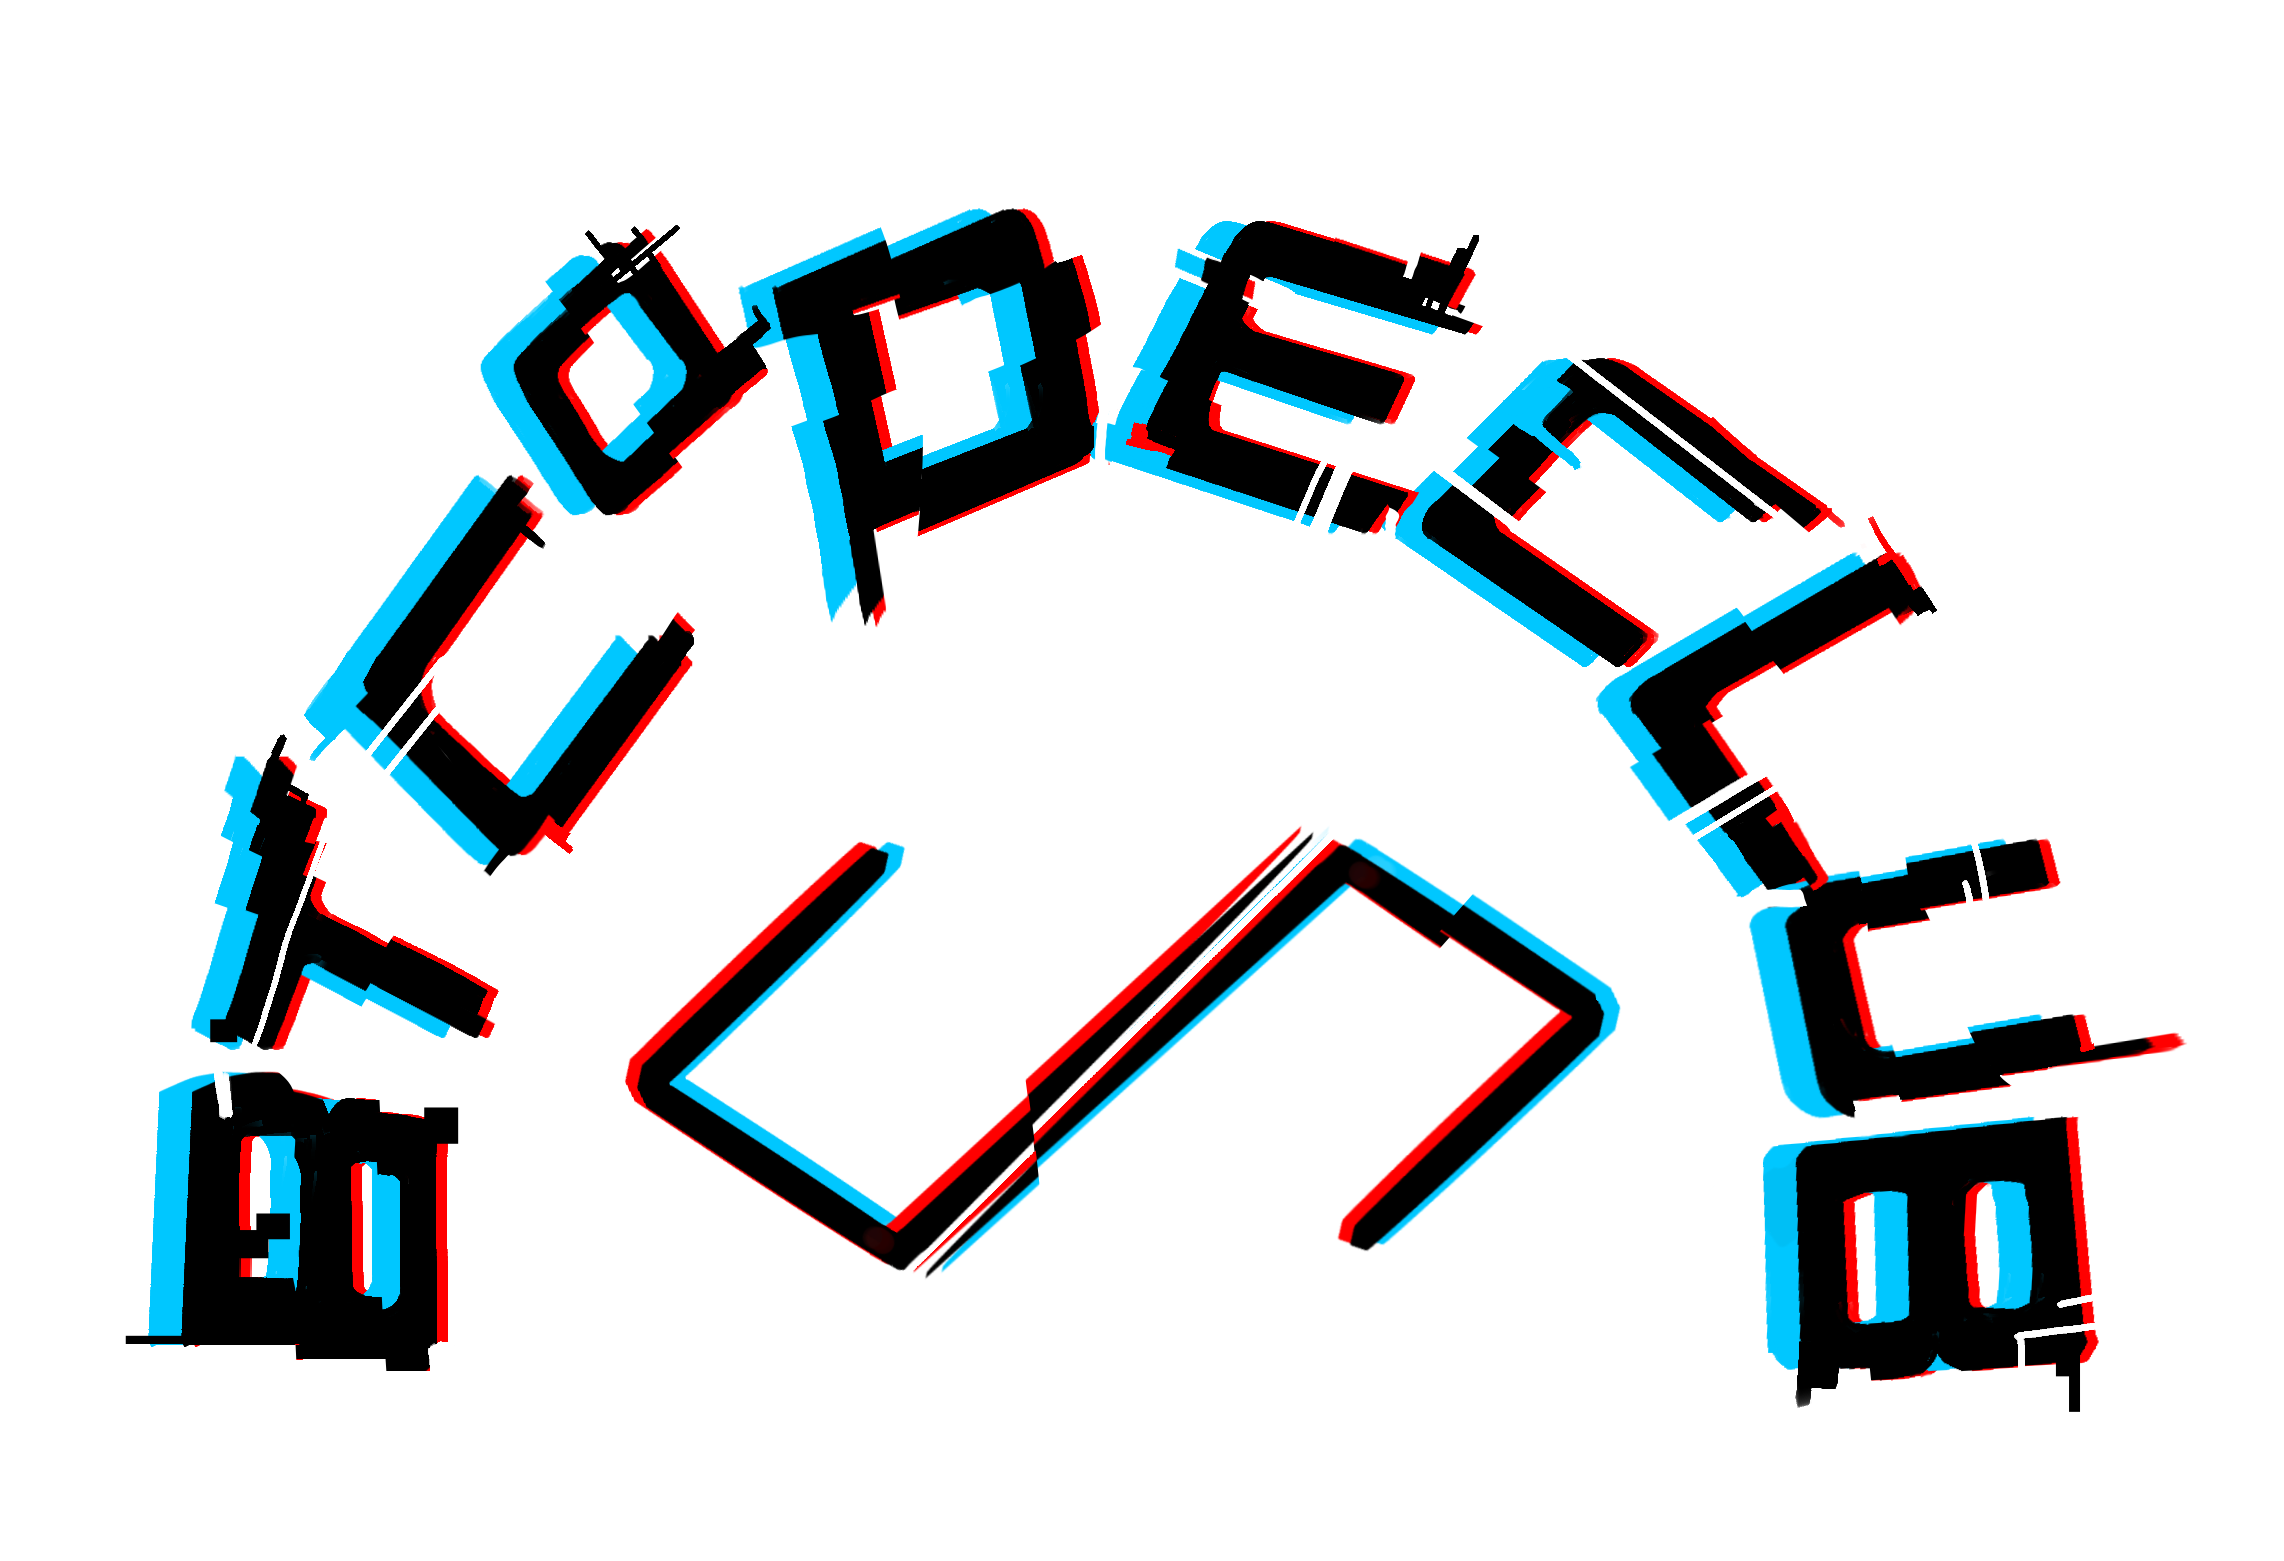
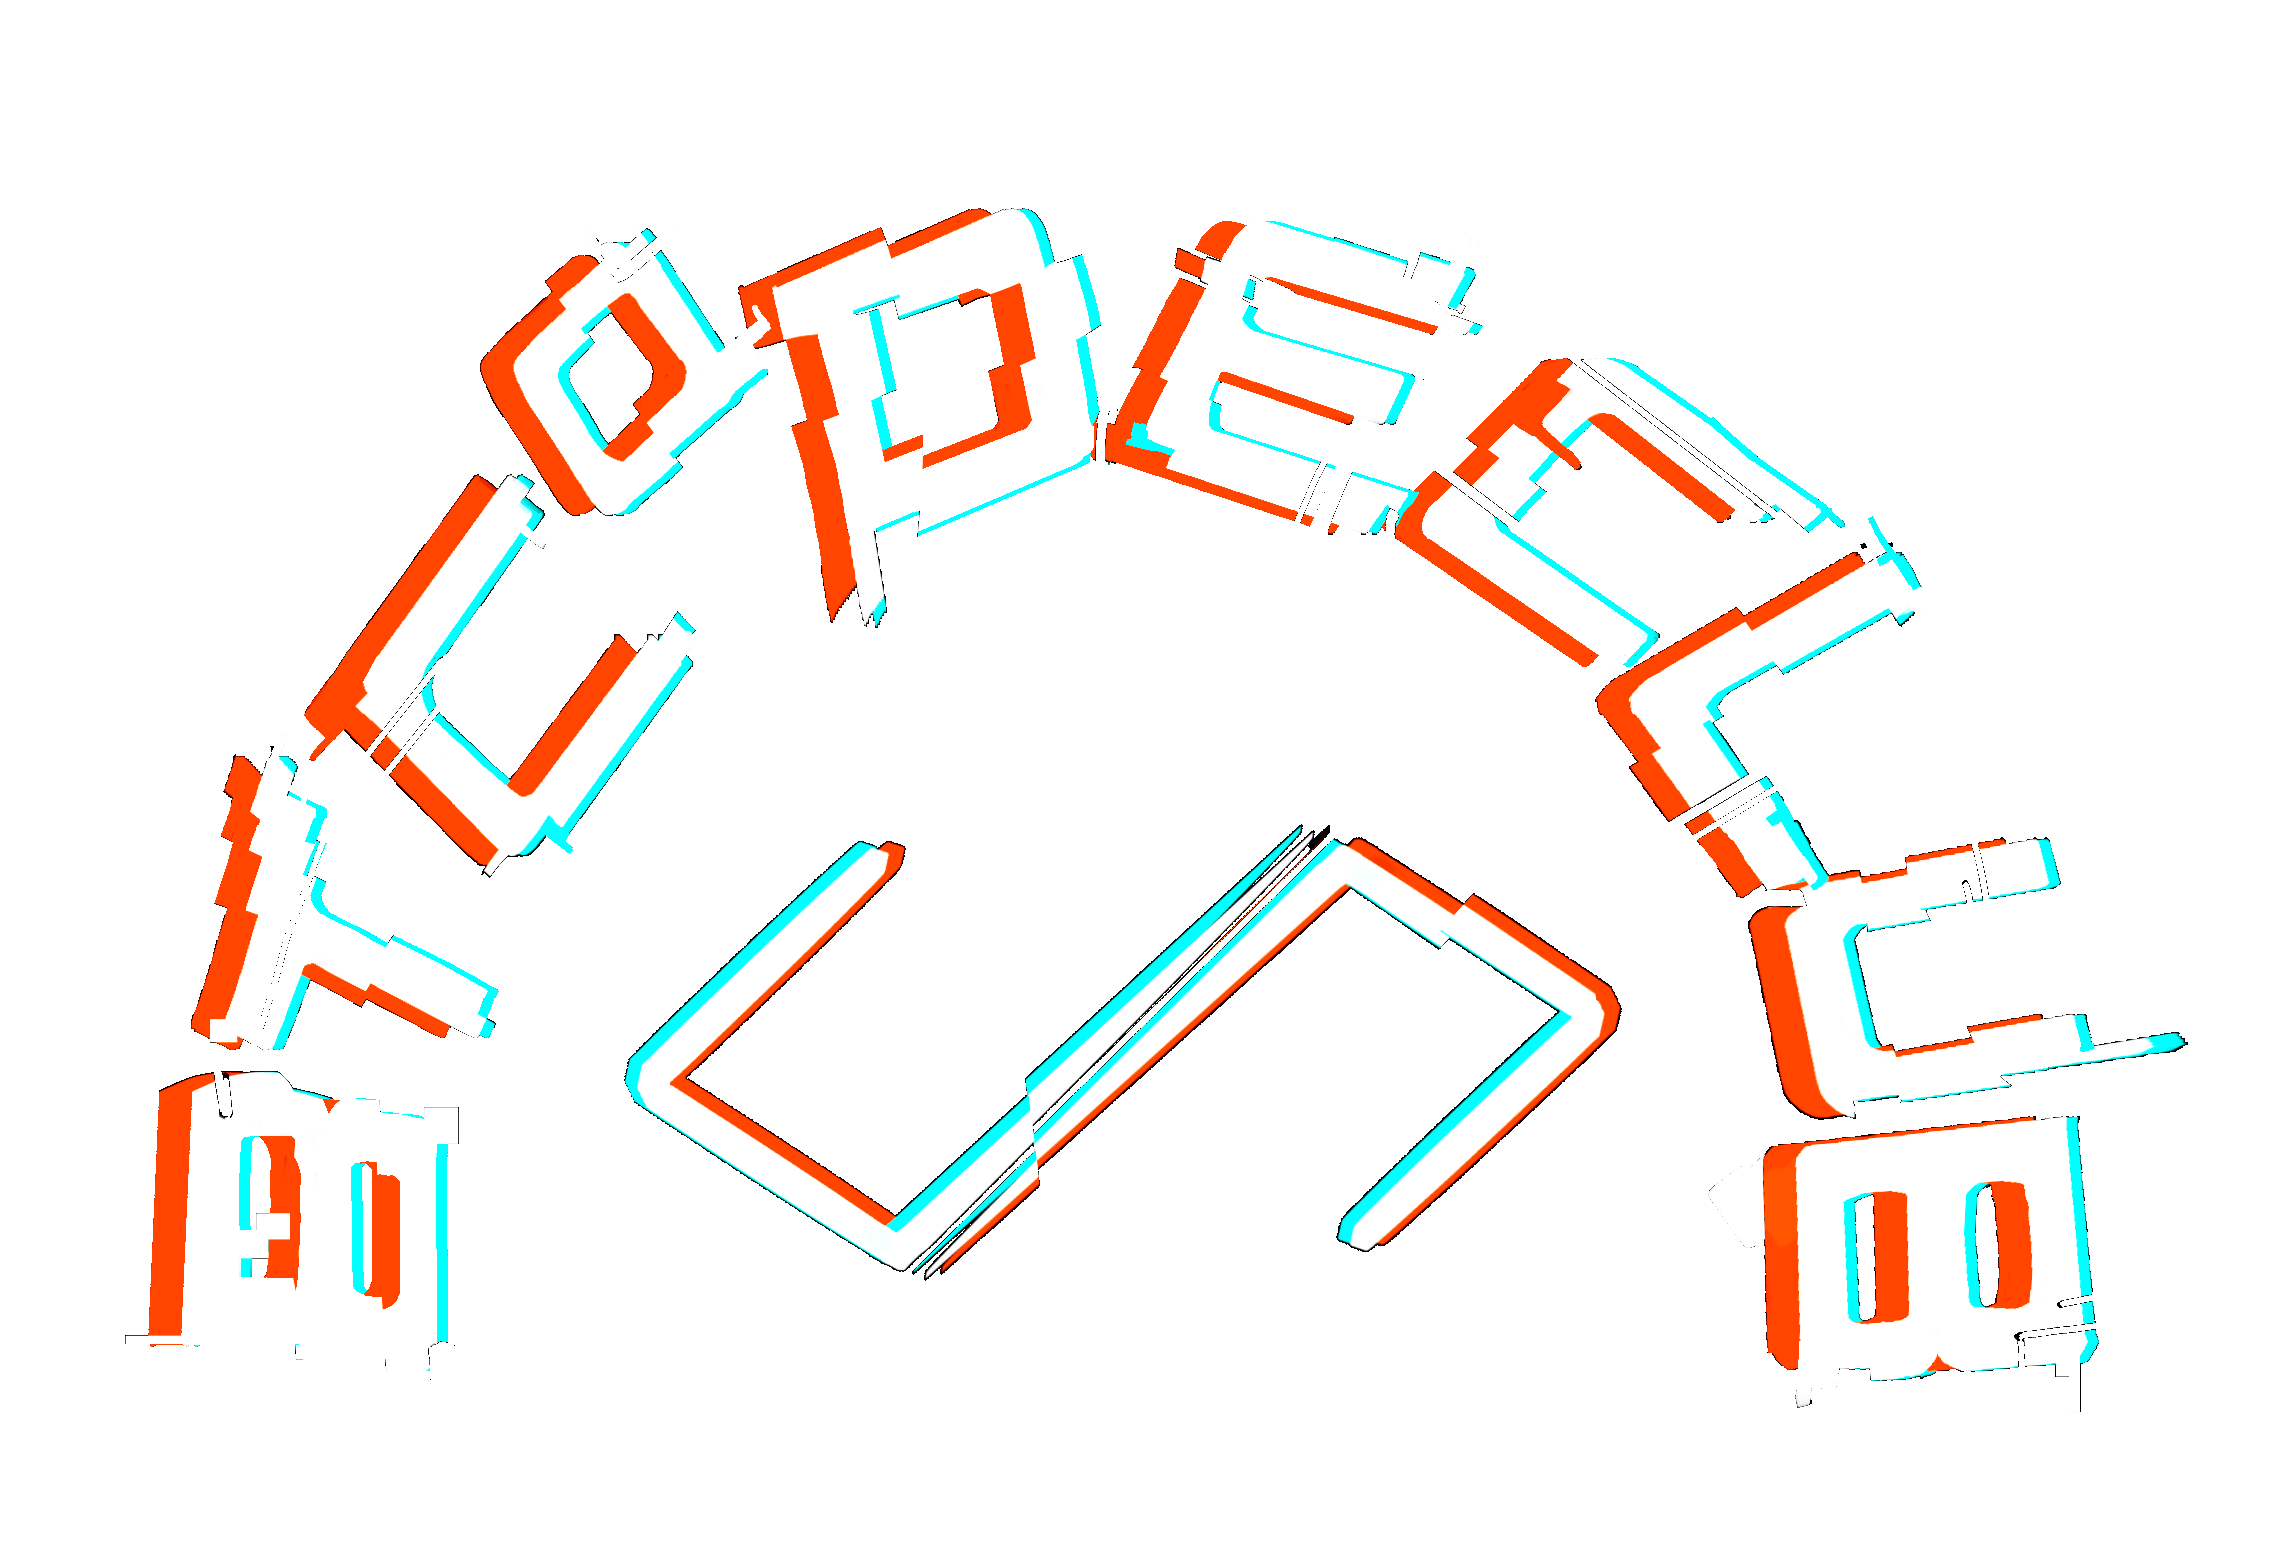
ready for ctf?

Changed region(s): [[0.0622, 0.123, 0.9637, 0.8917], [0.2487, 0.5227, 0.715, 0.8302]]

diff --git a/src/pages/Home.jsx b/src/pages/Home.jsx
@@ -15,43 +15,38 @@ import { TypeAnimation } from 'react-type-animation';
 const Home = () => {
     return (
         <>
-            <Header />
+            
             <main className="home-body">
                 <div className="hero" id="main">
-                    {/* <div className="hero-img"></div> */}
-                    <h1><TypeAnimation sequence={["BT CODE CLUB", 5000, "Hello, World!", 1000, "Welcome!", 3000]} speed={10} repeat={Infinity}/></h1>
+                    <div className="hero-img"><img src="/hero.png" alt=""/></div>
                 </div>
-                
-                <div className="about spacing" id="about">
-                    <h2 className="subtitle">About</h2>
-                    <div className="text center">BT Code Club is a fun opportunity to explore computer skills and having fun.</div>
-                    <h5 className="text-title">Programming</h5>
-                    <div className="text">Learning to code teaches you problem-solving and promotes teamwork. Programmers make anywhere from $70,000 to over $200,000. At Code Club, we teach you the methods, disciplines, and languages that many companies use today. From learning how to work in teams and build big projects with GitHub, to learning must-needed languages such as Python and HTML/CSS/JS frameworks. Code Club wants you to participate in helping out and developing impressive projects, so even if you do not know much, our members are always willing to help out. Knowing how to program before college is very impressive to colleges, even if you don’t want to major in computer science. </div>
-                    <h5 className="text-title">Volunteering</h5>
-                    <div className="text">BT Code Club gives members the opportunity to volunteer. Partering with tutoring program Recoursive, run by our co-leader Noah Kim, students teach basic programming all throughout select Bergen County libraries to young kids. Members can also build projects for other clubs such as websites or source code for volunteer hours. This will be a good opportunity to both gain volunteer hours and contribute to both the Bergen Tech and Bergen County community. </div>
-                    <h5 className="text-title">Competing</h5>
-                    <div className="text">Competing is a great opportunity to showcase skills and build your college application. Code Club brings members all across the state to participate in Hackathons, where students work with others and use their programming skills to make projects to solve a social issue. Students have the opportunity to participate in ACSL and USACO, computer science competitions where an algorithm is created to get a desired output. Students get the chance to participate in CTFs, competitions where people in a team are challenged to find and exploit vulnerabilities in a system to capture a "flag" or piece of information to win. </div>
+                <div className="light">
+                    <h2 className="title">BTCTF</h2>
+                    <div className="center subtitle">Cybersecurity, The Fun Way!</div>
+                    <div className="text center">05/24/2024 - 5/26/2024</div>
+                    <div className="text spacing center">Registration coming out soon</div>
                 </div>
-                <div className="events spacing" id="events">
-                    <h2 className="subtitle">Events</h2>
-                    <div className="text-title center">2023-2024</div>
-                    <div className="card-group">
-                    <Card title="BTCTF" image = {Ctf} description="BT's very own Capture The Flag! Complete a series of missions aimed to help introduce the basics of hacking. No experience is necessary. The competition is aimed for complete beginners that build up to a general knowledge of cybersecurity. Bring a team to compete and have fun."/>
-                    <Card title="APCSP Arcade" image = {Apcsp} description="The AP Computer Science Principles class will be showcasing their video games on bring your child to work day! See what fun video games the BT COMPSCI sophomores have made!"/>
-                    <Card title="Recoursive Tutoring" image ={Recoursive} description="Earn volunteer hours through Recoursive! Get the opportunity to teach kids programming at a library. Teach HTML/CSS/JS, Python, Scratch and more. Great opportunity to improve on teaching skills, as well as a great way to contribute to the Bergen County community."/>
-                    <Card title="School Events" image={Bt} description="Whenever BT has an event, such as multicultural day, mental health day, or springfest, BT Code Club might host a fun event."/>
-                    <Card title="ACSL" image={Acsl} description="Compete in computer science problems! Win some awards, or gain some skills! No experience necessary!"/>
-                    <Card title="Hackathons" image = {Hackathon} description="Join BT CODE CLUB as we go all throughout NJ to compete in hackathons throughout the year. A hackathon, also known as a codefest, is a social coding event that brings computer programmers and other interested people together to improve upon or build a new software program. Gain friends and coding experience! No experience necessary. "/>
+                <div className="about spacing" id="faq">
+                    <h5 className="text-title">What is BTCTF?</h5>
+                    <div className="text">BTCTF is a CTF (Capture The Flag) competition run by Bergen Tech Teterboro Code Club. Teams of 1-4 Compete for 2 days to get "flags" by solving challenges related to cybersecurity topics such as web exploitation, forensics, reverse engineering, cryptography, binary exploitation, and basic skills / trivia</div>
+                    <h5 className="text-title">Who can sign up to compete?</h5>
+                    <div className="text">Anybody can sign up to compete! We are open to all and are very welcoming to beginners. We are hoping that people can have fun and learn from this competition. </div>
+                    <h5 className="text-title">What do I need to compete?</h5>
+                    <div className="text">You will need a computer with reliable internet. You might also need a Linux OS and some other online tools.</div>
+                    <h5 className="text-title">Will there be prizes?</h5>
+                    <div className="text">There will be prizes! Prizes will be announced later.</div>
+                    <h5 className="text-title">Do I need to pay to participate?</h5>
+                    <div className="text">No! We want everybody to participate. There will be no fees associated with registration</div>
+                    <h5 className="text-title">Do I need a team?</h5>
+                    <div className="text">Yes, we recommend that you work with a team, since it is a great way to find solutions, and have fun. Teams consist of 1-5 members, but if you want to work alone, you can.</div>
+                    <h5 className="text-title">I still have questions...</h5>
+                    <div className="text">Feel free to email or contact us!</div>
+                </div>
+                <div className="footer">
+                    <div className="events spacing center" id="contact">
+                        <h3 className="subtitle center">Contact Us</h3>
+                        <a href="" className="text center">btcodeclub@gmail.com</a>
                     </div>
-                    <div className="text center">If you ever have an idea for an event, or want to help, please join and tell us!</div>
-                </div>
-                
-                <div className="contact spacing footer" id="join">
-                    <h2 className="subtitle">Join</h2>
-                    <div className="text-title center links"><a href="https://classroom.google.com/c/NDExNzM4NjY3ODM0?cjc=bf5iznt">Google Classroom</a></div>
-                    <div className="text-title center links"><a href="https://discord.gg/qKCqxk5BnR">Discord</a></div>
-                    <div className="text-title center links"><a href="https://instagram.com/btcodeclub?igshid=MzRlODBiNWFlZA==">Instagram</a></div>
-                    <div className="text-title center links"><a href="https://github.com/BT-CODE-CLUB">Github</a></div>
                 </div>
             </main>
         </>

diff --git a/src/css/Home.css b/src/css/Home.css
@@ -1,3 +1,5 @@
+@import url('https://fonts.googleapis.com/css2?family=Rubik+Doodle+Shadow&family=Rubik+Glitch&family=Ubuntu+Mono&family=Ubuntu:wght@700&display=swap');
+
 html {
     scroll-behavior:smooth
 }
@@ -7,38 +9,73 @@ body {
 }
 
 main {
+
+    font-family: 'Ubuntu Mono';
     height: max-content;
-    color:black;
+    color: #D3D3D3;
 }
 
+.hero-img {
+    padding-left: 1rem;
+    padding-top: 3rem;
+}
+
+img {
+
+    height: 15rem;
+    width: 25rem;
+}
+
+.light{
+    background: black;
+    padding-top: 0.5rem;
+    padding-bottom: 1rem;
+
+}
+
+.title {
+    color: #f8f8ff;
+    font-family: 'Rubik Glitch';
+    margin-top: 0rem;
+    padding-left: 1rem;
+    font-size: 100px;
+    text-align: center;
+    margin-bottom: 0.5rem;
+}
+
+
 .subtitle {
+    font-family: 'Rubik Doodle Shadow';
+    color: #FAF9F6;
     font-size: 3rem;
-    display: flex;
-    justify-content: center;
-    align-items: center;
+    padding-bottom: 1rem;
+
 }
 
 .text-title {
+    font-family: 'Rubik Doodle Shadow';
+    color: #FAF9F6;
     font-size: 1.7rem;
-    padding-left: 4rem;
+    padding-left: 1rem;
     padding-right: 4rem;
 }
 
 .text {
-    font-family: 'Trebuchet MS', 'Lucida Sans Unicode', 'Lucida Grande', 'Lucida Sans', Arial, sans-serif;
-    padding-left: 4rem;
-    padding-right: 4rem;
+    /* font-family: 'Trebuchet MS', 'Lucida Sans Unicode', 'Lucida Grande', 'Lucida Sans', Arial, sans-serif; */
+    padding-left: 2rem;
+    padding-right: 2rem;
     font-size: 1.5rem;
     text-align: left;
 }
 
 .hero { 
-    margin: 0;
+    filter: blur(0.5px);
     width: 100vw;
-    height: 60vw;
+    /* height: 60vw; */
+    background: black;
     box-sizing: border-box;
-    padding: 5rem;
-    padding-left: 5rem !important;
+    /* padding: 5rem; */
+    /* padding-left: 5rem !important; */
     position: relative;
     display: flex;
     justify-content: center;
@@ -46,22 +83,7 @@ main {
     
 }
 
-.hero::before{
-    filter: blur(3px);
-    background: linear-gradient(rgba(20, 46, 174, 0.657), rgba(25, 56, 119, 0.498)), url("/code.jpg");
-    background-blend-mode: multiply;
-    background-size: cover;
-    background-repeat: no-repeat;
-    width: 100vw;
-    height: 70vw;
-    content: "";
-    display: block;
-    position: absolute;
-    top: 0;
-    left: 0;
-    z-index: -1;
 
-}
 
 /* .hero-img {
     background: url("/hero.png");
@@ -90,19 +112,21 @@ main {
 }
 
 .hero h1 {
-    color: white;
+    
+    color: black;
     font-size: 7rem;
 }
 
 
 .about {
+    background: black;
     padding: 10rem;
-    background-color: white;
+
 }
 
 .events {
     padding: 10rem;
-    background-color: white;
+
 }
 
 .projects {
@@ -138,6 +162,7 @@ main {
 }
 
 .footer {
+    background: black;
     padding-bottom: 5rem !important;
 }
 
@@ -146,14 +171,14 @@ main {
 }
 
 a:link, a:active, a:visited {
-    color: black;
+    color: blue;
 }
 
 
 @media screen and (max-width:810px){
     .hero {
         height: 70vh;
-        padding: 2rem;
+        padding: 1rem;
         text-align: center;
     }
     .hero h1 {
@@ -187,7 +212,7 @@ a:link, a:active, a:visited {
     
     .hero {
         height: 50vh;
-        padding: 3rem;
+        padding: 1rem;
         text-align:center;
     }
 

diff --git a/src/css/header.css b/src/css/header.css
@@ -1,3 +1,4 @@
+@import url('https://fonts.googleapis.com/css2?family=Red+Hat+Display:wght@300&family=Rubik+Glitch&family=Ubuntu+Mono&family=Ubuntu:wght@500&display=swap');
 header {
     position: fixed;
     width: 100vw;
@@ -18,14 +19,12 @@ header a {
 
 
 header h1 {
-    font-family: 'Agdasima', sans-serif;
+    font-family: 'Ubuntu Mono', sans-serif;
     letter-spacing: 0.10rem;
     color: black;
 }
 
-header h1:hover {
-    color: rgb(93, 63, 211);    
-}
+
 
 header ul {
     display: flex;
@@ -40,13 +39,14 @@ header ul li {
 }
 
 header ul li a {
-    font-family: Trebuchet MS, sans-serif;
+    
+    font-family: 'Ubuntu';
     text-decoration: none;
     color: black;
 }
 
 header ul li a:hover {
-    color: rgb(93, 63, 211);
+    color: rgb(0, 35, 163);
 }
 
 .logo {

diff --git a/src/components/Header.jsx b/src/components/Header.jsx
@@ -7,16 +7,10 @@ const Header = () => {
     return (
         <header>
             <HashLink to="#">
-                <img src="/hero.png" alt="" className="logo"/>
+                <h1>BT Code Club</h1>
             </HashLink>
             <nav>
-                <ul>
-                    <li><HashLink to="#about">About</HashLink></li>
-                    <li><HashLink to="#events">Events</HashLink></li>
-                    <li><HashLink to="#projects">Projects</HashLink></li>
-                    {/* <li><HashLink to="#team">Team</HashLink></li> */}
-                    <li><HashLink to="#join">Join</HashLink></li>
-                </ul>
+               
             </nav>
         </header>
     );
